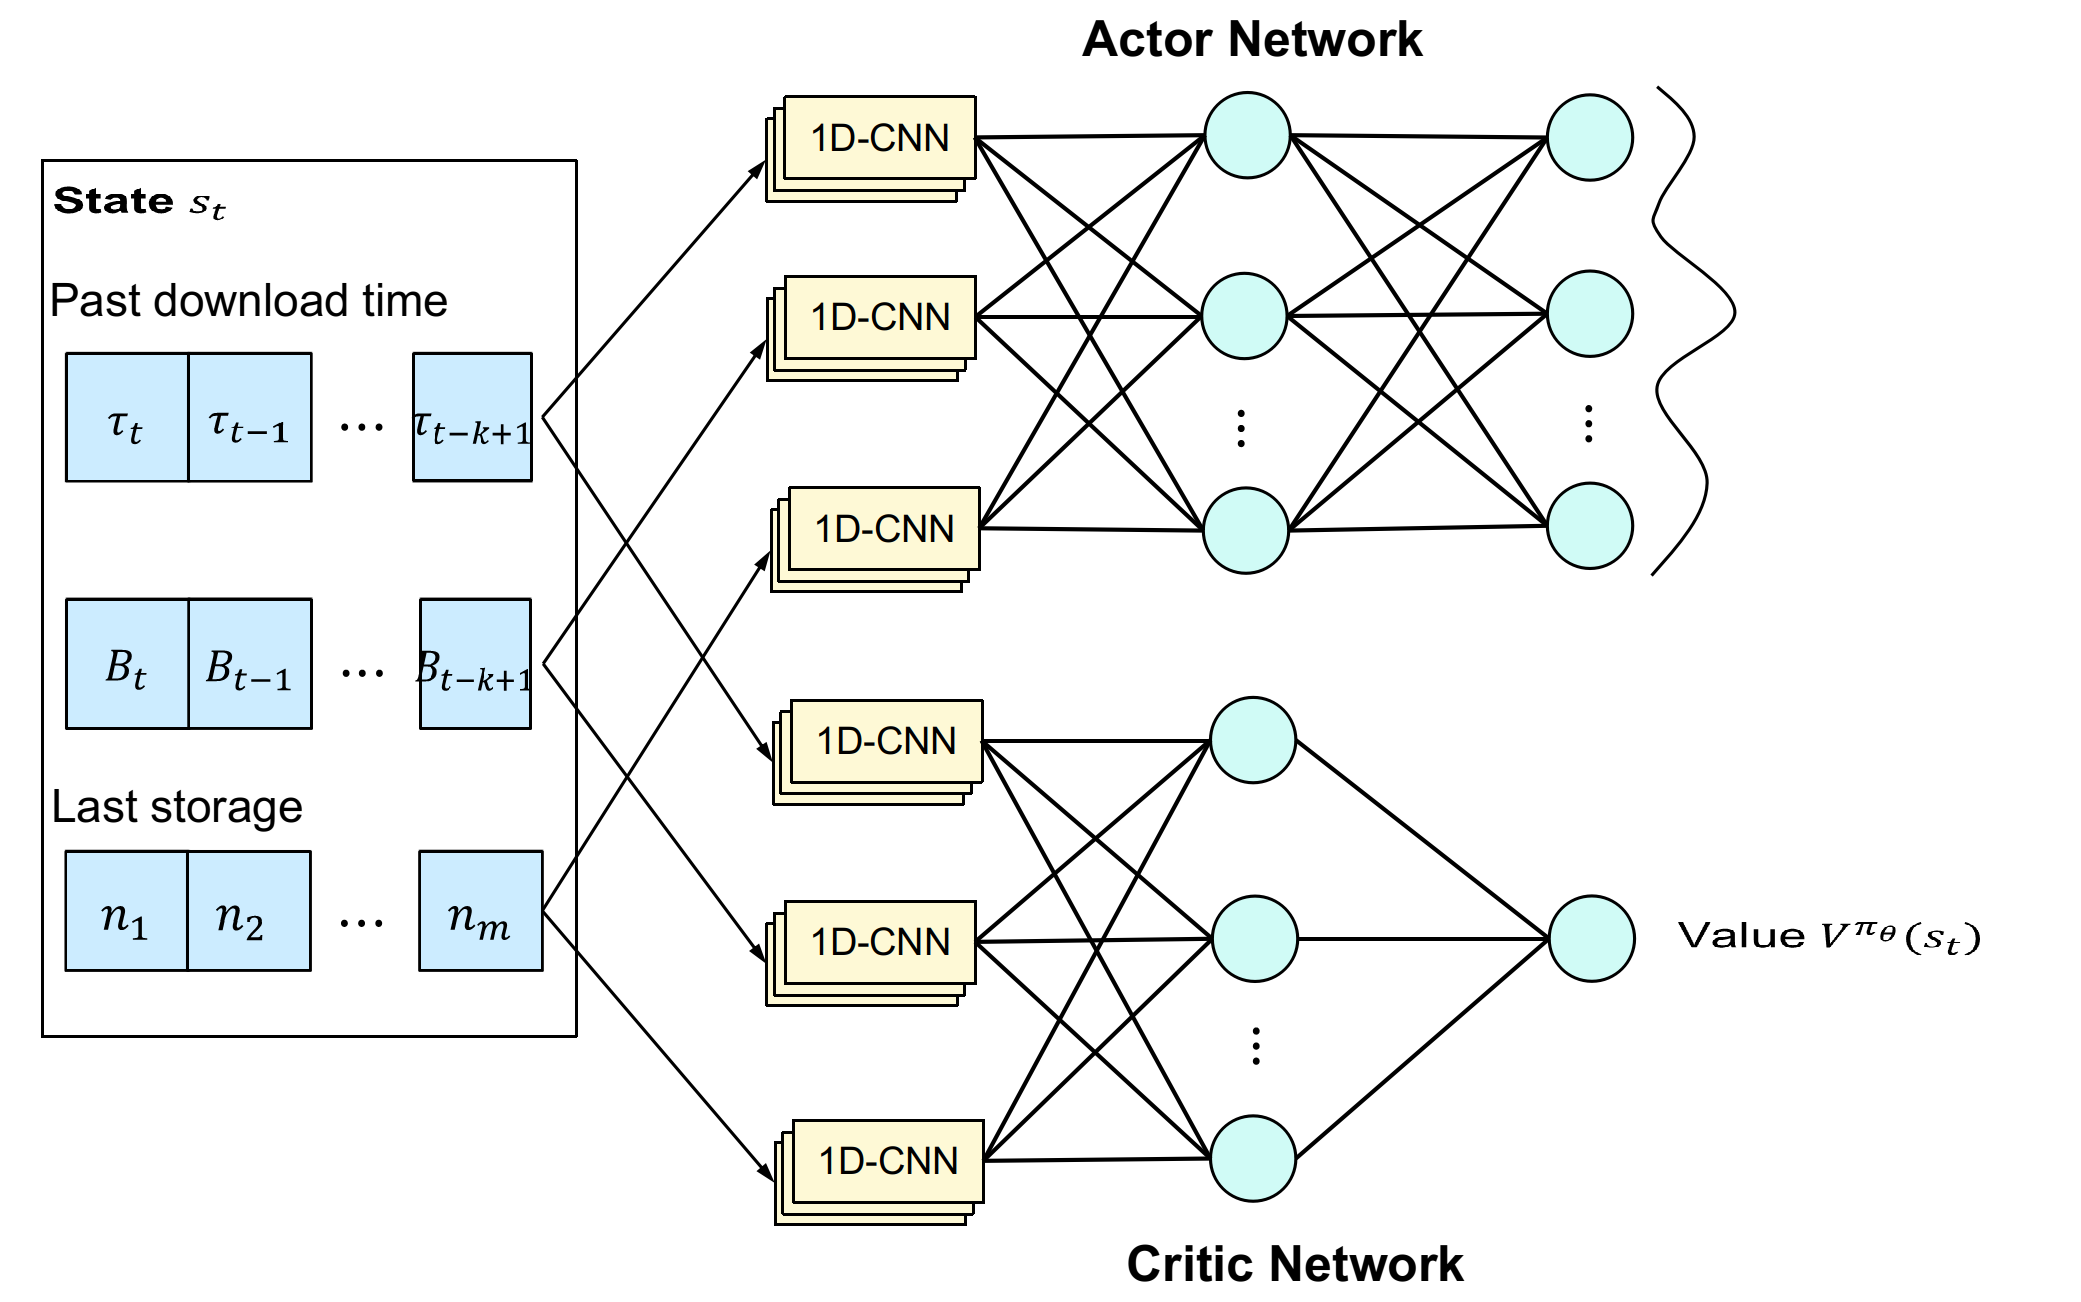
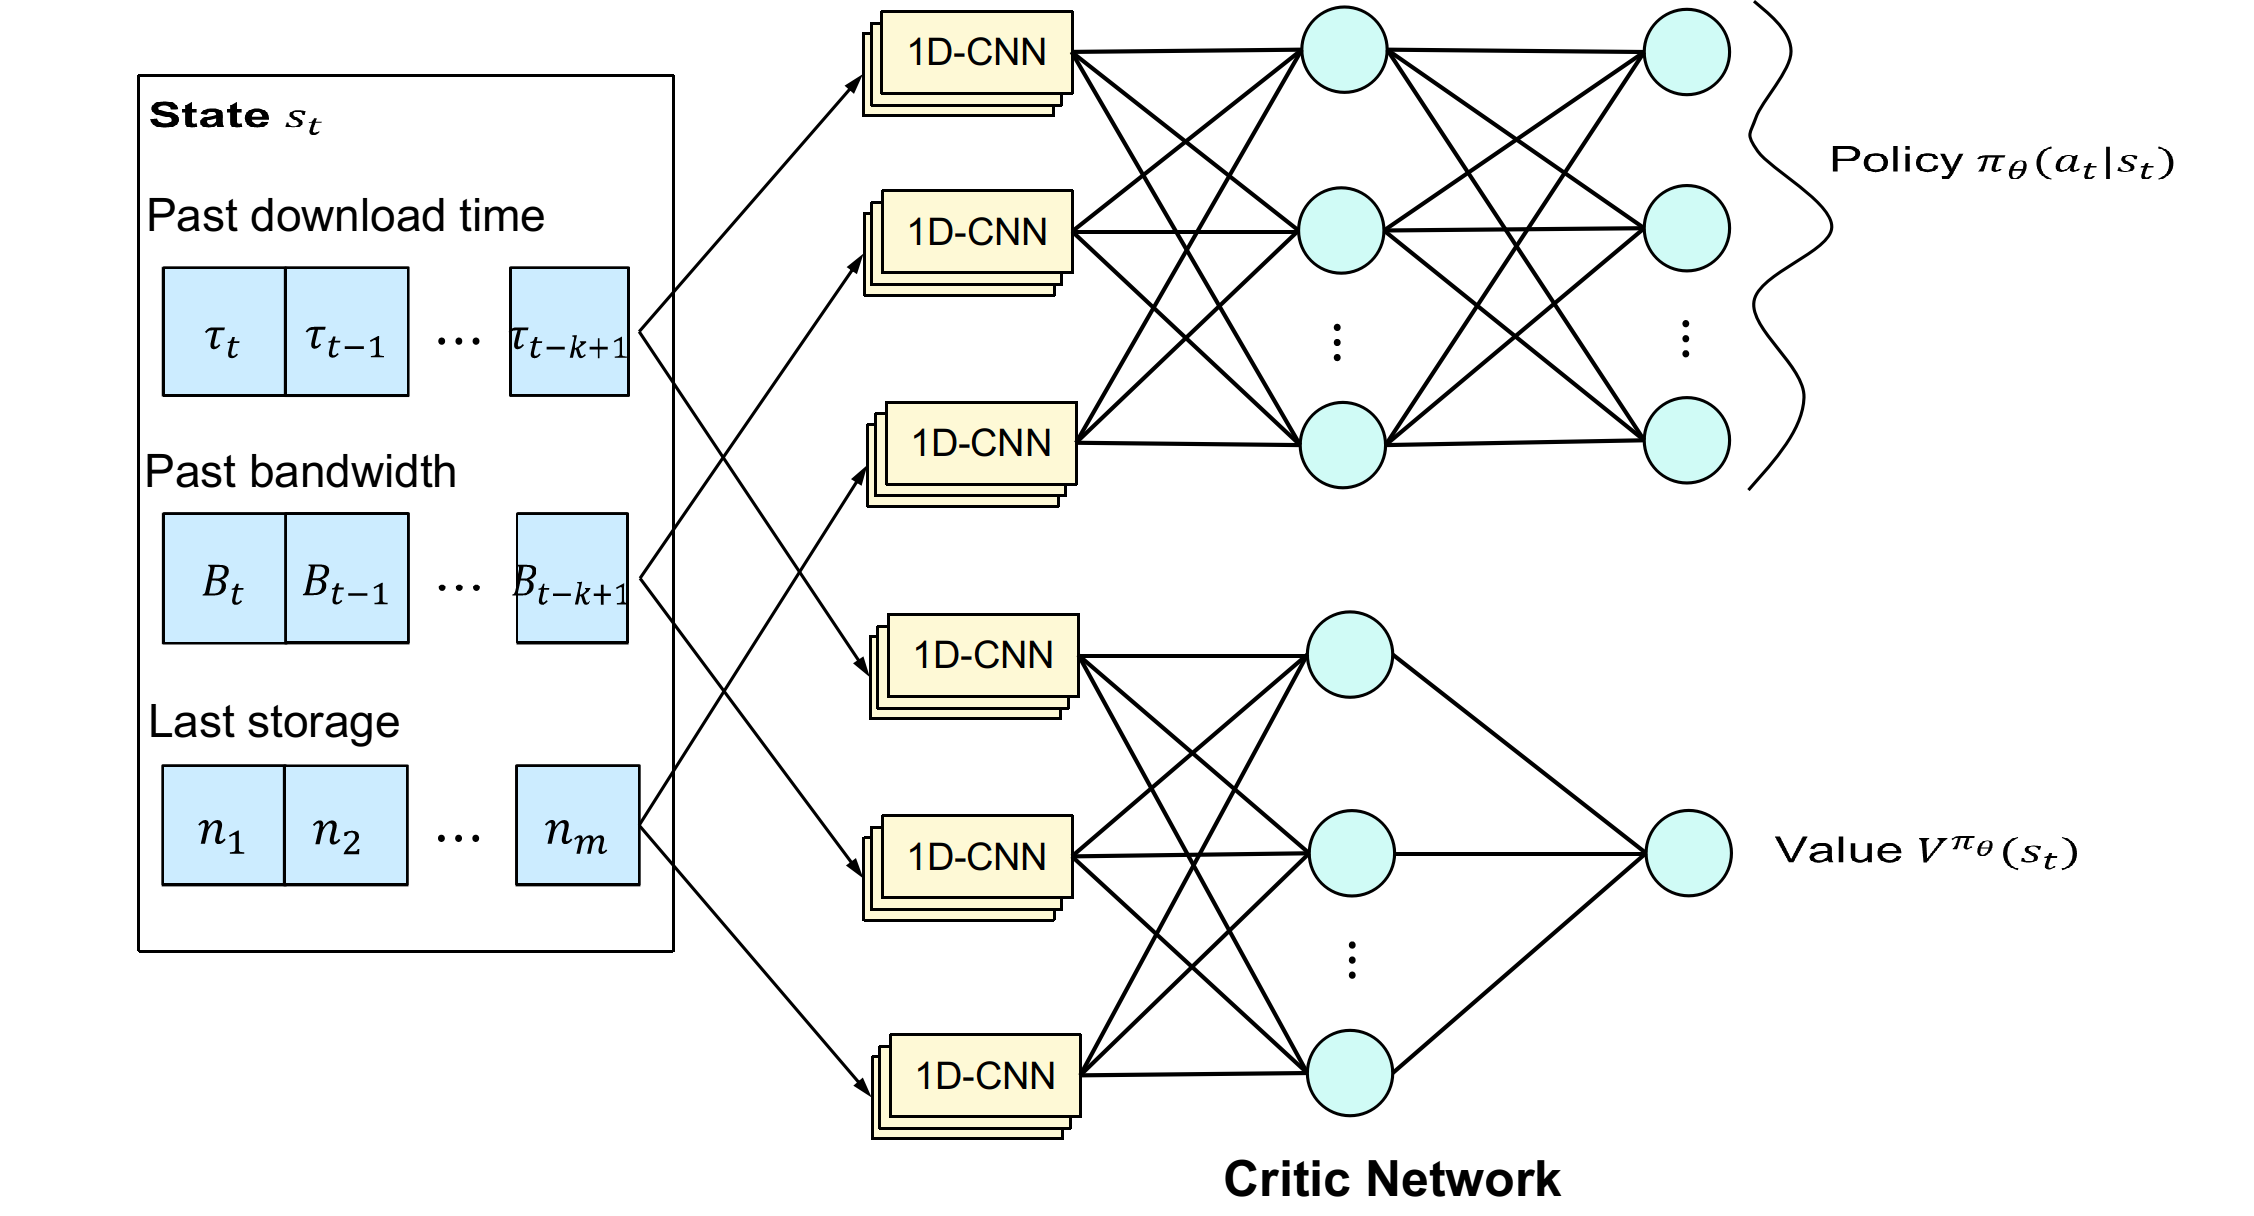
update algorithm

diff --git a/_thesis/main.tex b/_thesis/main.tex
@@ -10,6 +10,8 @@
 \graphicspath{ {./images/} }
 \usepackage{subfig}
 \usepackage{color,soul}
+\usepackage{amsmath}
+\usepackage{amssymb}
 \usepackage[utf8]{inputenc} % allow utf-8 input
 \usepackage[T1]{fontenc}    % use 8-bit T1 fonts
 \usepackage{hyperref}       % hyperlinks
@@ -132,33 +134,28 @@
 
     In our proposed model, the caching agent observes the environment and obtains several signals, including user requests, context information, and network conditions. These signals are assembled into a high-dimensional state input and then fed to the deep neural network embodied convolutional neural networks, which can mine useful information and output the value function or the policy. According to the output, an action is selected, determining the files to be cached at the next slot. The caching agent will receive a reward by observing the caching performance. The aim is to maximize (minimize) the expected accumulated discount reward (cost).
 
-    And furthermore, we could consider two phases in this problem.
-    Phase-I: Proactive Caching; the proactively request .
-    Phase-II: Dedicated Service; the cache node serve the hit segments, and bypass the un-hit request from Cloud.
+    The system state for this problem is: $\tau$ as last segment downloading time, $B$ as last downloading bandwidth, and $C$ for cache storage expression.
 
-    $x(t)$ is defined as the location distribution of files over cache nodes, and it is worth noting that each file can have more than one copy exists at one time.
-    The control vector $u(t)$ is proactive control to fetch files from the cloud server when request is failed to satisfy.
-    The reward function $R(t)$ is consist of three parts: hit times, loss penalty and communication cost.
-
-    System state:
+    In order to represent the limits on the storage capacity, the DRL agent makes a decision for each request on whether to store the currently requested file in the cache or not; and if yes, the agent determines which local file will be replaced. For each caching decision, there are $\mathcal{C} \times \mathcal{S} + 1$ possible actions. When $a_i=0$, the currently requested file is not stored, and the current caching space is not changed. When $a_i = n$, where $n\in\{1,2,\cdots,\mathcal{S_F}\}$, the action is to store the currently requested file by replacing the $n$-th file in the cache. The mathematical representation for action over one entry could be formulated as:
     $$
-    x(t)
+    a_i \triangleq I[C[i]=s], \forall i \in [1, \dots, |C|]
     $$
-    We aim to find the optimal caching policy to maximize the expected accumulated discount reward $\mathbb{E}\left[\sum_{t=0}^{\infty}\gamma^tr_t\right]$, where $\gamma\in(0,1]$ and the reward is defined as where $\mathcal{C}_t$ is the cache state in this period. The motivation is to represent the cache hit rate, which evaluates the data traffic.
-
-    We define the action space as $\mathcal{A}=\{a_1,a_2,\cdots,a_m\}$, where $m$ describes the total possible actions and generally a large value. For each file, there are two cache states: cached and not cached. There are also two kinds of actions: find a pair of files and exchange the cache states of the two files; keep the cache states of files unchanged.
-    \emph{State:}\\
-    After each request $t$, the caching agent state is defined as
-    $$
-        s_t=\left(x_{t0},x_{t1},x_{t2}\cdots,x_{tC}\right)
-    $$
-    where the index of the currently requested file is $0$, while the index of the cached file is from $1$ to $C$.\\
-    \emph{Action:}\\
-    In order to limit the action size, for each request, the DRL agent makes a decision on whether to store the currently requested file in the cache or not, and if yes, the agent determines which local file will be replaced. For each caching decision, there are $(C+1)$ possible actions. When $a_t=0$, the currently requested file is not stored, and the current caching space is not changed. When $a_t=n$, where $n\in\{1,2,\cdots,C\}$, the action is to store the currently requested file by replacing the $n$-th file in the cache.
+    where $s \in [0, |\mathcal{S_F}|]$. We define the action space as $\mathcal{A}=\{a_1, a_2, \cdots, a_C\}$. For each file, there are two cache states: cached and not cached. There are also two kinds of actions: find a pair of files and exchange the cache states of the two files; keep the cache states of files unchanged.
     
+    We aim to find the optimal caching policy to maximize the expected accumulated discount cost as collection of service time
+    $$
+    \min E[\sum_{t=0}^{\infty} \gamma^t r_t]
+    $$
+    , where $\gamma\in(0,1]$ and the reward is defined as
+    $$
+    r_t = I[\text{in-service}]
+    $$
+    where the indicator function is noticed by the environment for whether the agent is responding the request in this period. And furthermore, there exists near-optimal heuristic algorithm for the service phase: the cache could stop caching the segments not in $S^{0}_{R}$ but only bypass request for the missing segments from Cloud for this request. This heuristic algorithm could actually be simulated by environment, and not available in formulation of DRL.
 
     \subsection{Training Algorithm}
-    \hl{Please help check the correctness of algorithm}
+    \begin{center}
+        \hl{Please help check the correctness of algorithm description}
+    \end{center}
     The following training algorithm procedure is abstracted from the original paper \cite{a3c} and take reference from \textit{Pensieve} \cite{Pensieve}.
 
     Our algorithm firstly obtain the states after taking action.
